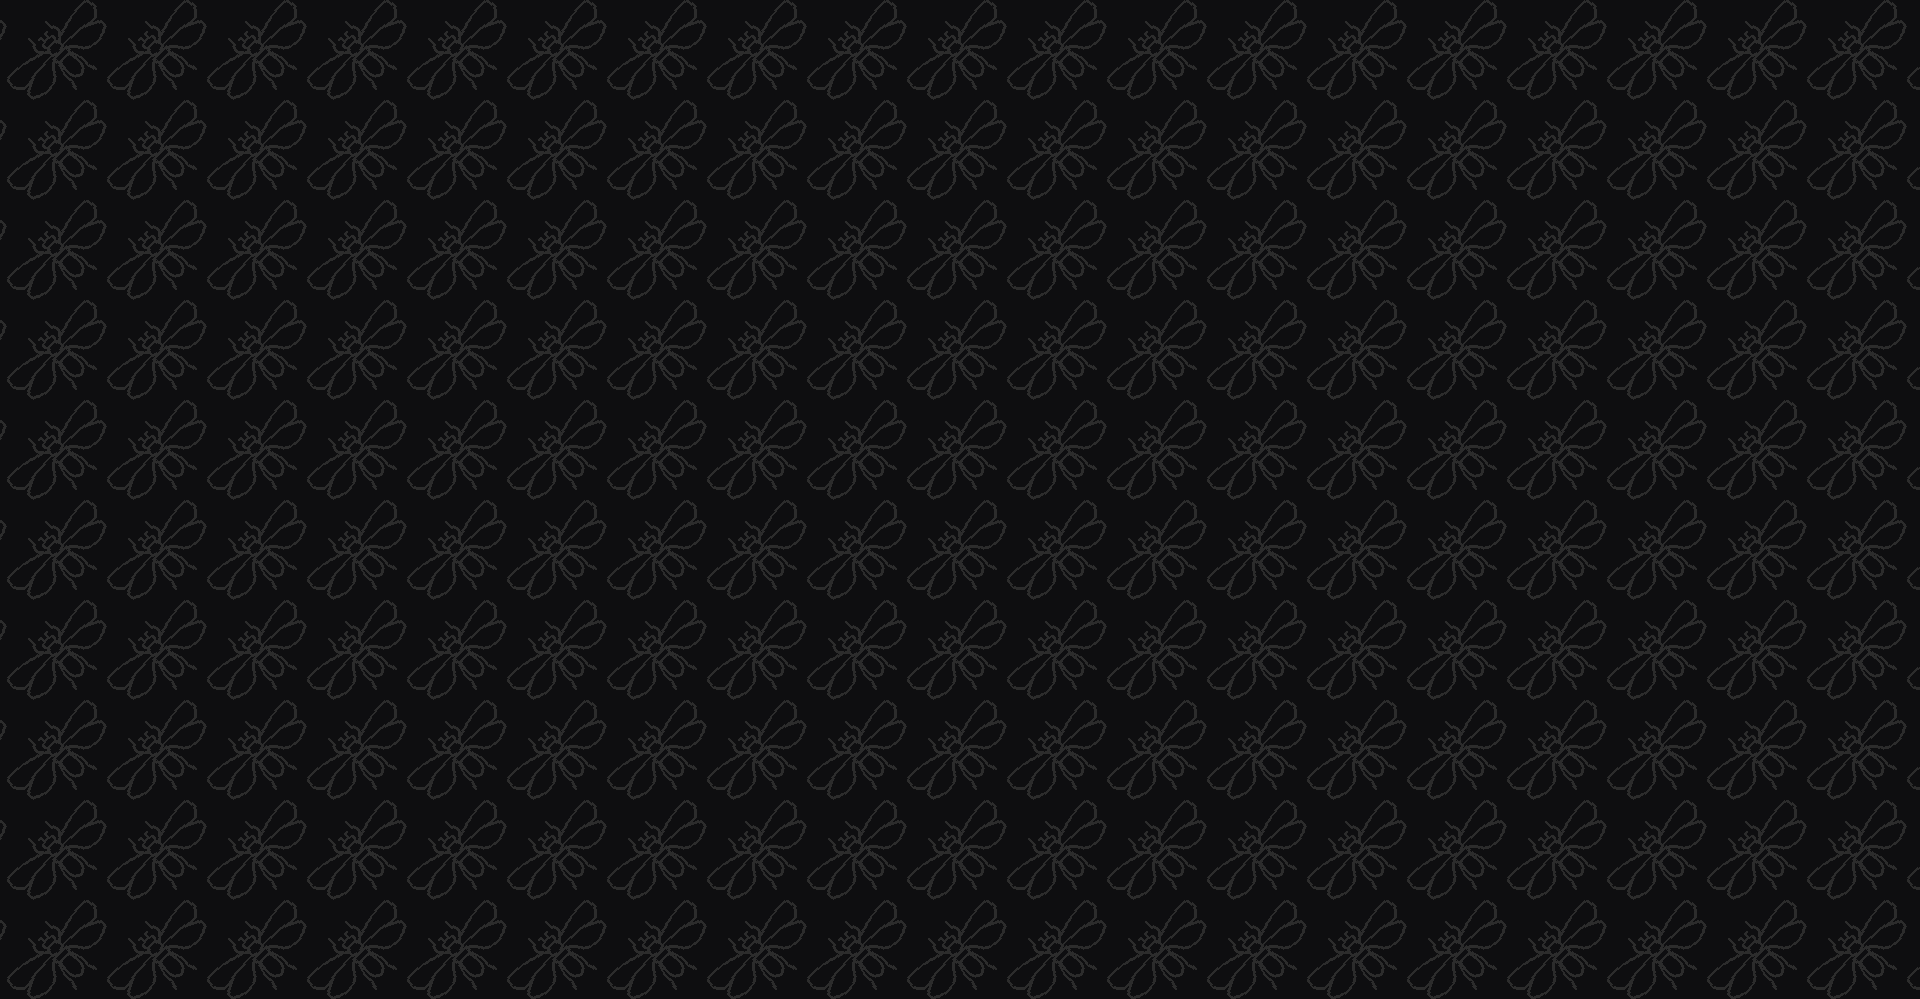
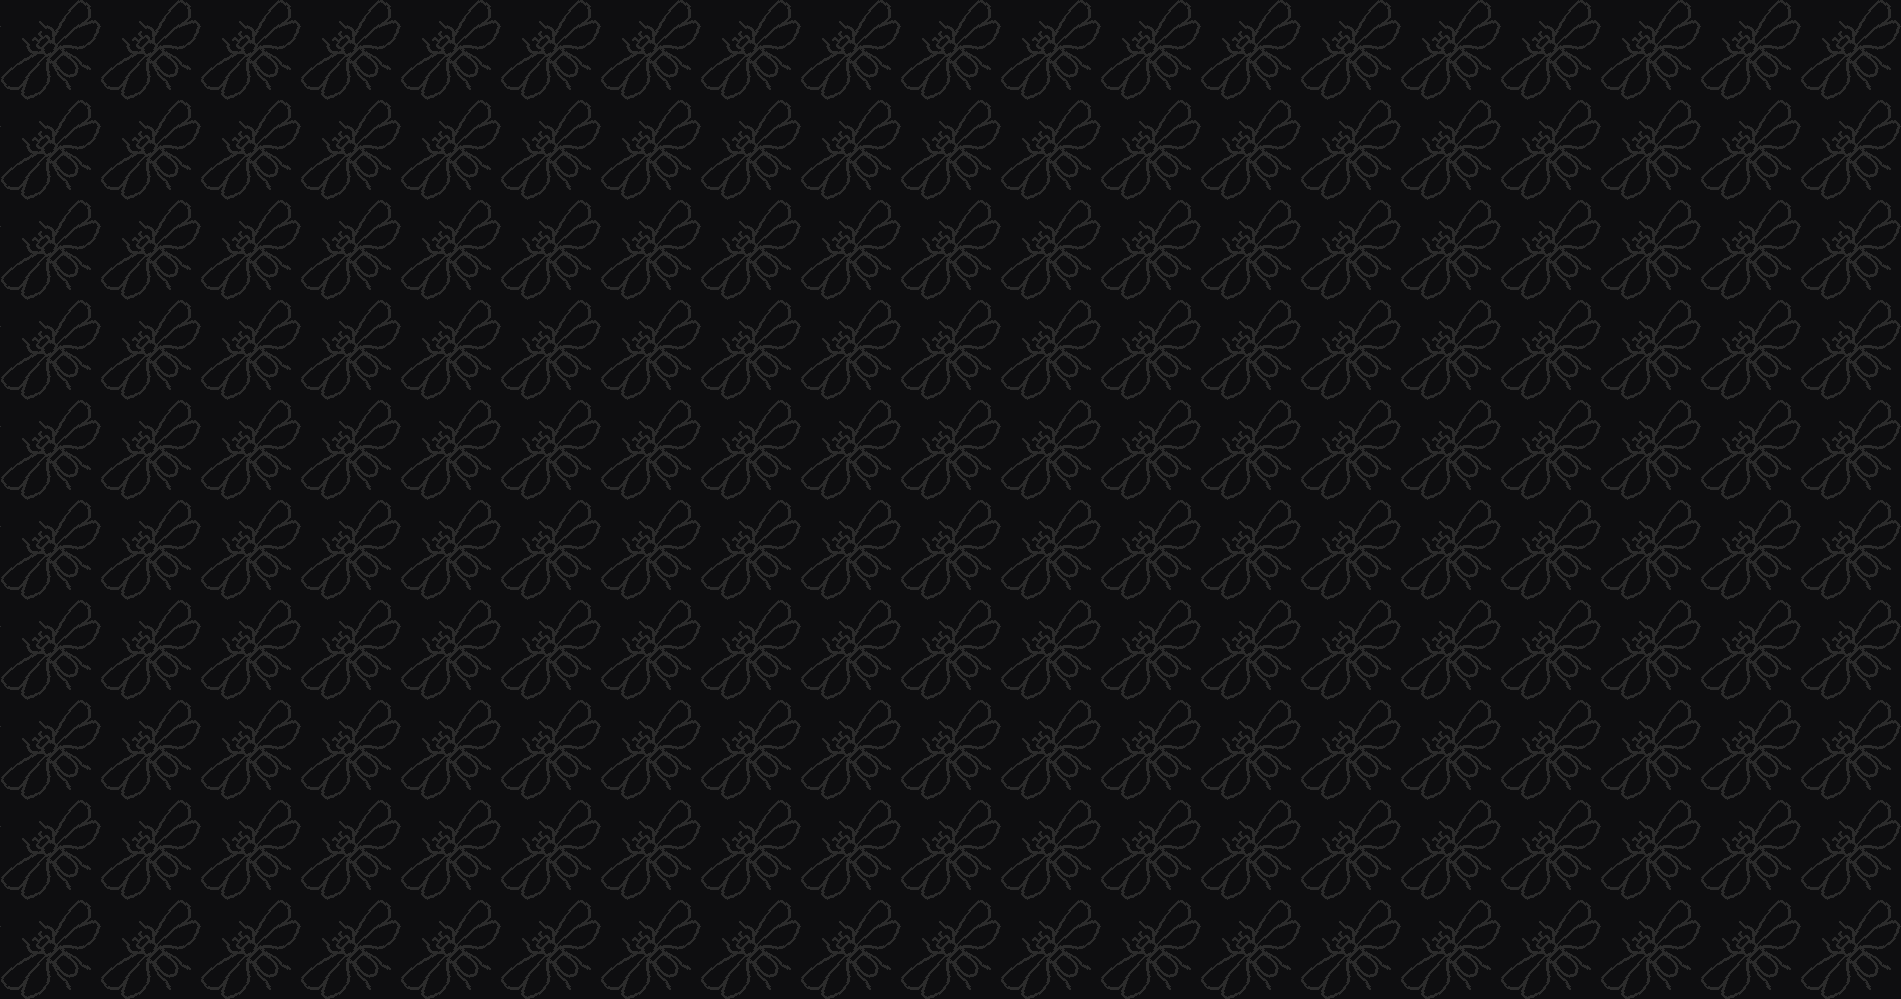
overhaul look

diff --git a/_site/assets/css/style.css b/_site/assets/css/style.css
@@ -1,57 +1,63 @@
 html {
   height: 100%;
-  margin: 0;
 }
 
 body {
   color: #e0e0e0;
-  font-family: Arial, sans-serif;
-  margin: 0;
-  padding: 1rem;
+  font-family: Arial, Helvetica, sans-serif;
   height: 100%;
   min-height: 100vh;
-  background-image: url('https://cicadaware.github.io/assets/images/background.png');
+  background-color: #0d0d0d;
   background-repeat: repeat;
   background-position: center;
+  margin: 0;
 }
 
 .title {
-  justify-content: center;
+  font-family: Arial, Helvetica, sans-serif;
+  text-align: center;
+  font-size: 3rem;
+  color: #e0e0e0;
 }
 
 .nav {
-  display: inline;
   gap: 10px;
-  justify-content: center;
+  text-align: center;
   font-size: 0.95rem;
+  margin: 1rem;
 }
 
 a {
-  color: #fffb00;
+  color: #ddd;
   text-decoration: none;
-  border: 2px solid #2979FF;
-  border-radius: 3px;
   padding: 0.2rem;
 }
 
 a:hover,
 a:focus {
   color: white;
-  border-color: white;
+  text-decoration: underline;
 }
 
 header, footer {
-  background-color: rgba(0, 0, 0, 0.75);
-  text-align: center;
-  margin: 1rem;
-  padding: 1rem;
-  border: 2px solid #fffb00;
+  background-color: #121c25;
+  margin: 1rem 0 1rem 0;
 }
 
 footer {
+  text-align: center;
   font-size: 0.9rem;
   color: #888;
+  border-top: 2px solid #1b2833;
+  padding-bottom: 0.2rem;
 }
+
+header {
+  padding: 0.5rem;
+  margin-top: 0;
+  border-bottom: 2px solid #1b2833;
+}
+
 .page-container {
   display: flex;
   flex-direction: column;
@@ -60,16 +66,18 @@ footer {
 
 .welcome {
   text-align: center;
+  color:#e0e0e0;
 }
 
 .content {
   flex: 1;
-  background-color: rgba(0, 0, 0, 0.75);
+  background-color: #1a1a1a;
+  border: 2px solid #242424;
   padding: 1rem;
-
-  margin: 1rem;
-  border: 2px solid #fffb00;
   overflow: hidden;
+  background-image: url('https://raw.githubusercontent.com/Cicadaware/cicadaware.github.io/refs/heads/main/assets/images/background.png');
+  background-repeat: repeat;
+  background-size: 384px 216px;
 }
 
 .post-grid {
@@ -81,15 +89,14 @@ footer {
 
 .post-link {
   text-decoration: none;
-  color: #fffb00;
+  color: inherit;
   display: block;
   flex: 1 1 300px;
   max-width: 300px;
 }
 
 .post-block {
-  border: 2px solid  #2979FF;
-  background-color: rgba(122, 122, 122, 0.198);
+  background-color: #222222;
   padding: 1rem;
   height: 200px;
   box-sizing: border-box;
@@ -98,10 +105,12 @@ footer {
   overflow: hidden;
   line-height: 1.4;
   text-align: center;
+  border: 2px double grey;
 }
 
 .post-block:hover {
-  background: linear-gradient(to bottom, rgba(255, 0, 0, 0), rgb(255, 255, 0));
+  background-color: #2a2a2a;
+  transform: scale(1.05);
 }
 
 .post-block p {
@@ -109,13 +118,9 @@ footer {
   flex-grow: 1;
 }
 
-.post-title {
-  margin: 0.5rem;
-}
-
 .post-date {
   font-size: 0.85rem;
-  color: #fffb00;
+  color: #ddd;
   margin: 0 0 0.2rem 0;
   font-weight: 600;
 }
@@ -126,6 +131,3 @@ footer {
   color: #ddd;
 }
 
-.post-block:hover .post-summary, .post-block:hover .post-date {
-  color: black;
-}

diff --git a/assets/css/style.css b/assets/css/style.css
@@ -7,42 +7,40 @@ body {
   font-family: Arial, Helvetica, sans-serif;
   height: 100%;
   min-height: 100vh;
-  background-image: url('https://cicadaware.github.io/assets/images/background.png');
+  background-color: #0d0d0d;
   background-repeat: repeat;
   background-position: center;
+  margin: 0;
 }
 
 .title {
+  font-family: Arial, Helvetica, sans-serif;
   text-align: center;
   font-size: 3rem;
+  color: #e0e0e0;
 }
 
 .nav {
   gap: 10px;
-  justify-content: right;
-  text-align: right;
+  text-align: center;
   font-size: 0.95rem;
+  margin: 1rem;
 }
 
 a {
   color: #ddd;
   text-decoration: none;
-  border-radius: 3px;
   padding: 0.2rem;
 }
 
 a:hover,
 a:focus {
   color: white;
-  border-color: white;
   text-decoration: underline;
 }
 
 header, footer {
-  background-color: rgba(0, 0, 0, 0.60);
-  border: 2px solid #fffb00;
-  box-shadow: 0px 0px 10px 0 #fffb00;
-  border-radius: 5px;
+  background-color: #121c25;
   margin: 1rem 0 1rem 0;
 }
 
@@ -50,10 +48,14 @@ footer {
   text-align: center;
   font-size: 0.9rem;
   color: #888;
+  border-top: 2px solid #1b2833;
+  padding-bottom: 0.2rem;
 }
 
 header {
   padding: 0.5rem;
+  margin-top: 0;
+  border-bottom: 2px solid #1b2833;
 }
 
 .page-container {
@@ -64,16 +66,18 @@ header {
 
 .welcome {
   text-align: center;
+  color:#e0e0e0;
 }
 
 .content {
   flex: 1;
-  background-color: rgba(0, 0, 0, 0.60);
+  background-color: #1a1a1a;
+  border: 2px solid #242424;
   padding: 1rem;
-  border: 2px solid #fffb00;
   overflow: hidden;
-  box-shadow: 0px 0px 10px 0 #fffb00;
-  border-radius: 5px;
+  background-image: url('https://raw.githubusercontent.com/Cicadaware/cicadaware.github.io/refs/heads/main/assets/images/background.png');
+  background-repeat: repeat;
+  background-size: 384px 216px;
 }
 
 .post-grid {
@@ -85,16 +89,14 @@ header {
 
 .post-link {
   text-decoration: none;
-  color: #ddd;
+  color: inherit;
   display: block;
   flex: 1 1 300px;
   max-width: 300px;
 }
 
 .post-block {
-  border: 2px solid  #2979FF;
-  box-shadow: 0px 0px 10px 0 #2979FF;
-  background-color: rgba(122, 122, 122, 0.198);
+  background-color: #222222;
   padding: 1rem;
   height: 200px;
   box-sizing: border-box;
@@ -103,11 +105,12 @@ header {
   overflow: hidden;
   line-height: 1.4;
   text-align: center;
-  border-radius: 5px;
+  border: 2px double grey;
 }
 
 .post-block:hover {
-  background: linear-gradient(to bottom, rgba(255, 0, 0, 0), #2979FF);
+  background-color: #2a2a2a;
+  transform: scale(1.05);
 }
 
 .post-block p {
@@ -128,6 +131,3 @@ header {
   color: #ddd;
 }
 
-.post-block:hover .post-summary, .post-block:hover .post-date {
-  color: black;
-}

diff --git a/_site/2025/06/16/first-post.html b/_site/2025/06/16/first-post.html
@@ -10,12 +10,12 @@
     <h1 class="title">Cicadacore's Blog</h1>
 
       <div class="nav">
-        <a href="/">HOME</a>
-        <a href="/2025/06/16/first-post.html">ABOUT</a>
-        <a href="https://cicadacore.itch.io/">ITCH.IO</a>
-        <a href="https://www.youtube.com/@Cicadacore64">YOUTUBE</a>
-        <a href="https://www.twitch.tv/cicadacore">TWITCH</a>
-        <a href="https://discord.gg/uyxnK4YzVw">DISCORD</a>
+        <a class="nav-links" href="/">HOME</a>
+        <a class="nav-links" href="/2025/06/16/first-post.html">ABOUT</a>
+        <a class="nav-links" href="https://cicadacore.itch.io/">ITCH.IO</a>
+        <a class="nav-links" href="https://www.youtube.com/@Cicadacore64">YOUTUBE</a>
+        <a class="nav-links" href="https://www.twitch.tv/cicadacore">TWITCH</a>
+        <a class="nav-links" href="https://discord.gg/uyxnK4YzVw">DISCORD</a>
       </div>
 
   </header>

diff --git a/_site/index.html b/_site/index.html
@@ -10,12 +10,12 @@
     <h1 class="title">Cicadacore's Blog</h1>
 
       <div class="nav">
-        <a href="/">HOME</a>
-        <a href="/2025/06/16/first-post.html">ABOUT</a>
-        <a href="https://cicadacore.itch.io/">ITCH.IO</a>
-        <a href="https://www.youtube.com/@Cicadacore64">YOUTUBE</a>
-        <a href="https://www.twitch.tv/cicadacore">TWITCH</a>
-        <a href="https://discord.gg/uyxnK4YzVw">DISCORD</a>
+        <a class="nav-links" href="/">HOME</a>
+        <a class="nav-links" href="/2025/06/16/first-post.html">ABOUT</a>
+        <a class="nav-links" href="https://cicadacore.itch.io/">ITCH.IO</a>
+        <a class="nav-links" href="https://www.youtube.com/@Cicadacore64">YOUTUBE</a>
+        <a class="nav-links" href="https://www.twitch.tv/cicadacore">TWITCH</a>
+        <a class="nav-links" href="https://discord.gg/uyxnK4YzVw">DISCORD</a>
       </div>
 
   </header>

diff --git a/_layouts/default.html b/_layouts/default.html
@@ -10,12 +10,12 @@
     <h1 class="title">{{ site.title }}</h1>
 
       <div class="nav">
-        <a href="/">HOME</a>
-        <a href="/2025/06/16/first-post.html">ABOUT</a>
-        <a href="https://cicadacore.itch.io/">ITCH.IO</a>
-        <a href="https://www.youtube.com/@Cicadacore64">YOUTUBE</a>
-        <a href="https://www.twitch.tv/cicadacore">TWITCH</a>
-        <a href="https://discord.gg/uyxnK4YzVw">DISCORD</a>
+        <a class="nav-links" href="/">HOME</a>
+        <a class="nav-links" href="/2025/06/16/first-post.html">ABOUT</a>
+        <a class="nav-links" href="https://cicadacore.itch.io/">ITCH.IO</a>
+        <a class="nav-links" href="https://www.youtube.com/@Cicadacore64">YOUTUBE</a>
+        <a class="nav-links" href="https://www.twitch.tv/cicadacore">TWITCH</a>
+        <a class="nav-links" href="https://discord.gg/uyxnK4YzVw">DISCORD</a>
       </div>
 
   </header>
